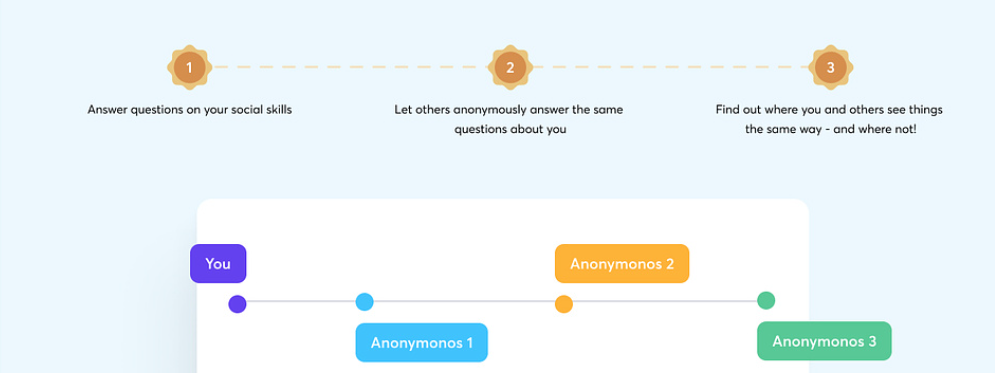
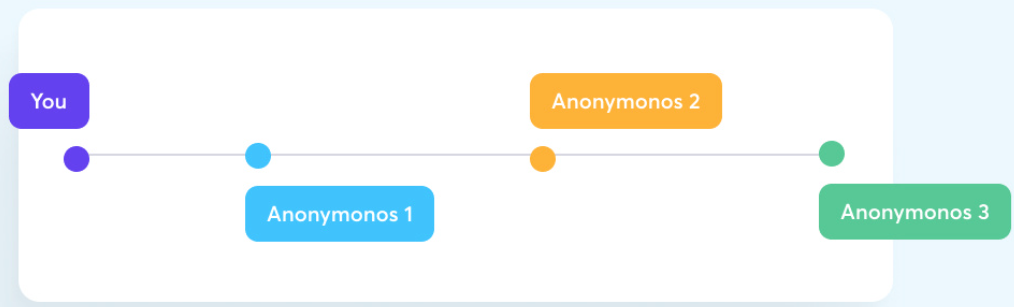
completed SocialSkills component with HorizontalList and animations

diff --git a/src/components/Cards/SocialSkills.jsx b/src/components/Cards/SocialSkills.jsx
@@ -1,26 +1,100 @@
+import React, { useEffect } from "react";
+import gsap from "gsap";
 import ColoredComponent from "../ColoredComponent";
 import Typography from "../Typography";
+import HorizontalList from "../misc/HorizontalList";
 
 const SocialSkills = () => {
+  useEffect(() => {
+    // Target the skillsCard element using its ID
+    const skillsCard = document.getElementById("skillsCard");
+
+    // Add event listeners for mouse enter and leave
+    skillsCard.addEventListener("mouseenter", () => {
+      const tl = gsap.timeline();
+
+      const skillsHeading1 = document.getElementById("skills-heading-1");
+      const skillsHeading2 = document.getElementById("skills-heading-2");
+      const dottedLine = document.querySelector(".dotted-line");
+      const stars = document.querySelectorAll(".stars");
+      const skillTexts = document.querySelectorAll(".skillText");
+      const skillImage = document.getElementById("skillsImg");
+
+      tl.set([skillsHeading1, skillsHeading2], { x: "-1000%", x: "1000%" });
+      tl.set(stars, { x: "10000%" });
+      tl.set(skillTexts, { opacity: 0 });
+      tl.set(dottedLine, { opacity: 0 });
+      tl.set(skillImage, { opacity: 0 });
+
+      // Animate skills-heading-1 and skills-heading-2 from left and right
+      tl.to(skillsHeading1, { x: "0%", duration: 1, ease: "power2.out" }).to(
+        skillsHeading2,
+        { x: "0%", duration: 1, ease: "power2.out" },
+        "-=0.5"
+      );
+
+      // animation for fotted line
+
+      tl.to(dottedLine, {
+        opacity: 1,
+        x: 0,
+        duration: 1,
+        ease: "power2.out",
+        stagger: 0.2,
+      });
+
+      // Animate stars elements from the right with a 0.5-second gap
+      tl.to(stars, {
+        x: "0%",
+        duration: 0.5,
+        ease: "power2.out",
+        stagger: 0.2,
+      });
+
+      tl.to(skillTexts, {
+        opacity: 1,
+        x: 0,
+        duration: 1,
+        ease: "power2.out",
+        stagger: 0.2,
+      });
+
+      tl.to(skillImage, {
+        opacity: 1,
+        x: 0,
+        duration: 1,
+        ease: "power2.out",
+        stagger: 0.2,
+      });
+
+      tl.play();
+    });
+  }, []);
+
   return (
     <ColoredComponent
       color={"#edf8fe"}
       flexDirection={"column"}
       className={"items-center text-center"}
+      id={"skillsCard"}
     >
       <Typography
         variant={"paragraph"}
         text={
           "Let your friends, family, and co-workers(anonymously) rate your social skills."
         }
-        className={"pb-2"}
+        className={"pb-2 "}
+        id={"skills-heading-1"}
       />
       <Typography
         variant={"sub-heading"}
         text={"Ever wondered what others think of you?"}
-        className={"pb-2"}
+        className={"pb-8"}
+        id={"skills-heading-2"}
       />
-      <img src="/assets/social-skills.png" alt="" />
+      <HorizontalList />
+
+      <img src="/assets/social-skills.png" alt="" id="skillsImg" />
     </ColoredComponent>
   );
 };

diff --git a/src/components/misc/HorizontalList.jsx b/src/components/misc/HorizontalList.jsx
@@ -1,0 +1,59 @@
+import Box from "../Box";
+import Typography from "../Typography";
+
+const HorizontalList = () => {
+  return (
+    <>
+      <div className="relative w-4/5 pb-8 pt-8">
+        {/* <!-- Start Image --> */}
+        <img
+          src="/assets/star.png"
+          alt="Start Image"
+          className="w-6 h-6 absolute left-0 top-1/2 transform -translate-y-1/2 stars"
+        />
+
+        {/* <!-- Middle Image --> */}
+        <img
+          src="/assets/star.png"
+          alt="Middle Image"
+          className="w-6 h-6 absolute left-1/2 top-1/2 transform -translate-x-1/2 -translate-y-1/2 stars"
+        />
+
+        {/* <!-- End Image --> */}
+        <img
+          src="/assets/star.png"
+          alt="End Image"
+          className="w-6 h-6 absolute right-0 top-1/2 transform -translate-y-1/2 stars"
+        />
+
+        {/* <!-- Dotted Border --> */}
+        <div
+          className="border-t border-dotted border-4 w-full mx-auto dotted-line"
+          style={{ backgroundColor: "#d68d4c" }}
+        ></div>
+      </div>
+
+      <div className="w-full flex justify-between pb-12">
+        <Typography
+          variant={"paragraph"}
+          text={"Answer questions on your social skills"}
+          className={"w-1/4 skillText"}
+        />
+        <Typography
+          variant={"paragraph"}
+          text={"Let others anonymously answer the same questions about you"}
+          className={"w-1/4 skillText"}
+        />
+        <Typography
+          variant={"paragraph"}
+          text={
+            "Find out where you and others see things the same way - and where not!"
+          }
+          className={"w-1/4 skillText"}
+        />
+      </div>
+    </>
+  );
+};
+
+export default HorizontalList;

diff --git a/src/components/Cards/TestCard.jsx b/src/components/Cards/TestCard.jsx
@@ -1,10 +1,31 @@
-import { Button } from "@mui/material";
+import { useEffect } from "react";
+import { gsap } from "gsap";
 import Box from "../Box";
 import ColoredComponent from "../ColoredComponent";
 import Typography from "../Typography";
 import Typewriter from "typewriter-effect";
 
 const TestCard = () => {
+  useEffect(() => {
+    const TestElement = document.getElementById("test");
+    TestElement.addEventListener("mouseenter", () => {
+      const tl = gsap.timeline();
+
+      const animationElements = document.querySelectorAll(".test-animation");
+
+      tl.from(animationElements, { opacity: 0, y: "0%" });
+
+      tl.to(animationElements, {
+        opacity: 1,
+        x: 0,
+        duration: 1,
+        ease: "power2.out",
+        stagger: 0.2,
+      });
+
+      tl.to(animationElements, { y: "20%", duration: 1, ease: "power2.out" });
+    });
+  }, []);
   return (
     <ColoredComponent
       flexDirection={"column"}
@@ -41,16 +62,17 @@ const TestCard = () => {
       <Box>
         <a
           href="/"
-          className="text-white bg-black px-4 p-1 rounded-full hover:bg-gray-800"
+          className="text-white bg-black px-4 p-1 rounded-full hover:bg-gray-800 test-animation"
+          id="testButton"
         >
-          Start a test{" "}
+          Start a test
         </a>
       </Box>
 
       <Typography
         variant={"tiny-text"}
         text={"Take only 5 minutes"}
-        className={"p-2"}
+        className={"p-2 test-animation"}
       />
     </ColoredComponent>
   );

diff --git a/src/components/Cards/Familiar.jsx b/src/components/Cards/Familiar.jsx
@@ -77,7 +77,7 @@ const Familiar = () => {
   return (
     <div
       className="p-4"
-      style={{ height: "60vh" }}
+      style={{ height: "70vh" }}
       name="emotions"
       id="emotions"
     >
@@ -95,12 +95,12 @@ const Familiar = () => {
           onMouseOver={horizontalScroll}
           ref={ref}
           style={{
-            height: "41vh",
+            height: "45vh",
             overflowX: "scroll",
             overflow: "hidden",
           }}
         >
-          <Box className={"p-5"}>
+          <Box className={"p-5 h-max"}>
             <EmojiCard
               emoji={128544}
               heading={"You argue with colleague"}

diff --git a/tailwind.config.js b/tailwind.config.js
@@ -5,4 +5,16 @@ module.exports = {
     extend: {},
   },
   plugins: [],
+
+  extend: {
+    borderWidth: {
+      3: "3px", // You can adjust the width as needed
+    },
+    borderColor: {
+      black: "#000", // Define your custom border color
+    },
+    borderStyle: {
+      dotted: "dotted", // Define the 'dotted' border style
+    },
+  },
 };

diff --git a/src/components/Cards/Intro.jsx b/src/components/Cards/Intro.jsx
@@ -18,7 +18,7 @@ const Intro = () => {
 
     const introCardPhoto = document.getElementById("intro-card-photo");
     const tl = gsap.timeline();
-    tl.set(introCardPhoto, { opacity: 0, scale: 0 });
+    tl.set(introCardPhoto, { opacity: 0, scale: 0, x: "15%" });
     tl.to(introCardPhoto, {
       opacity: 1,
       scale: 1,
